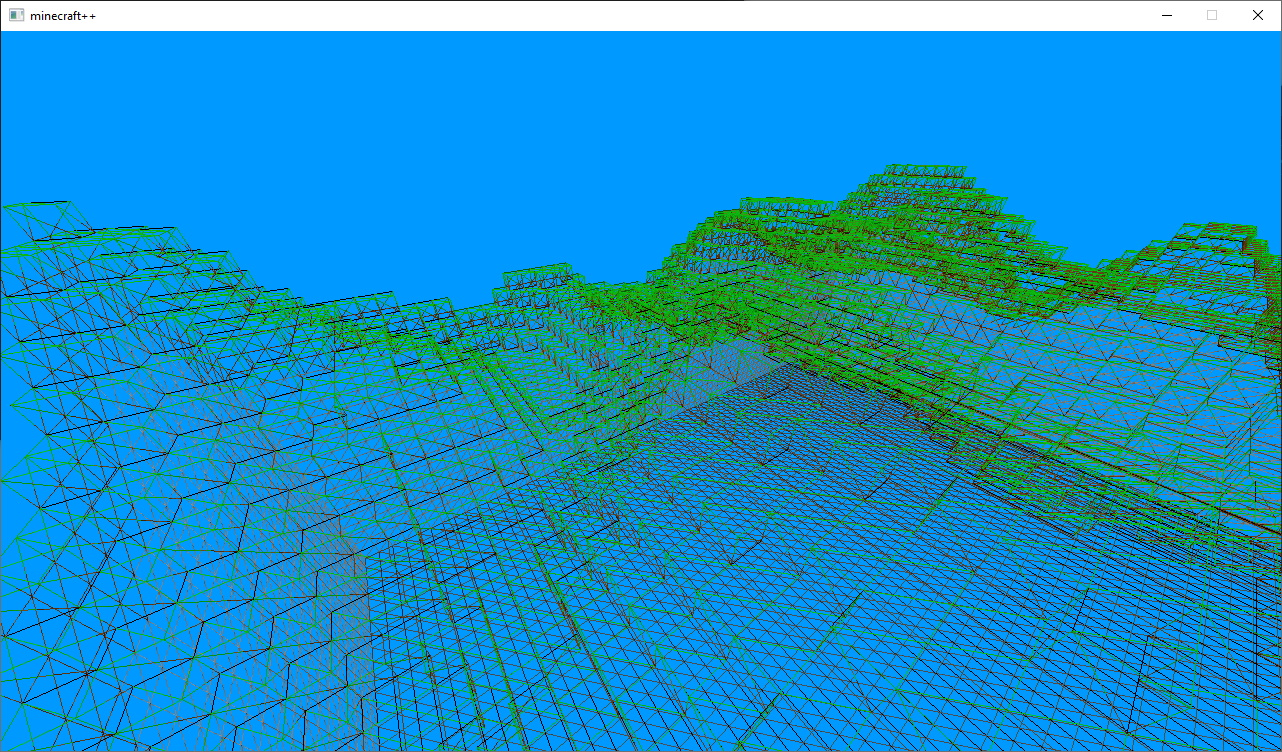
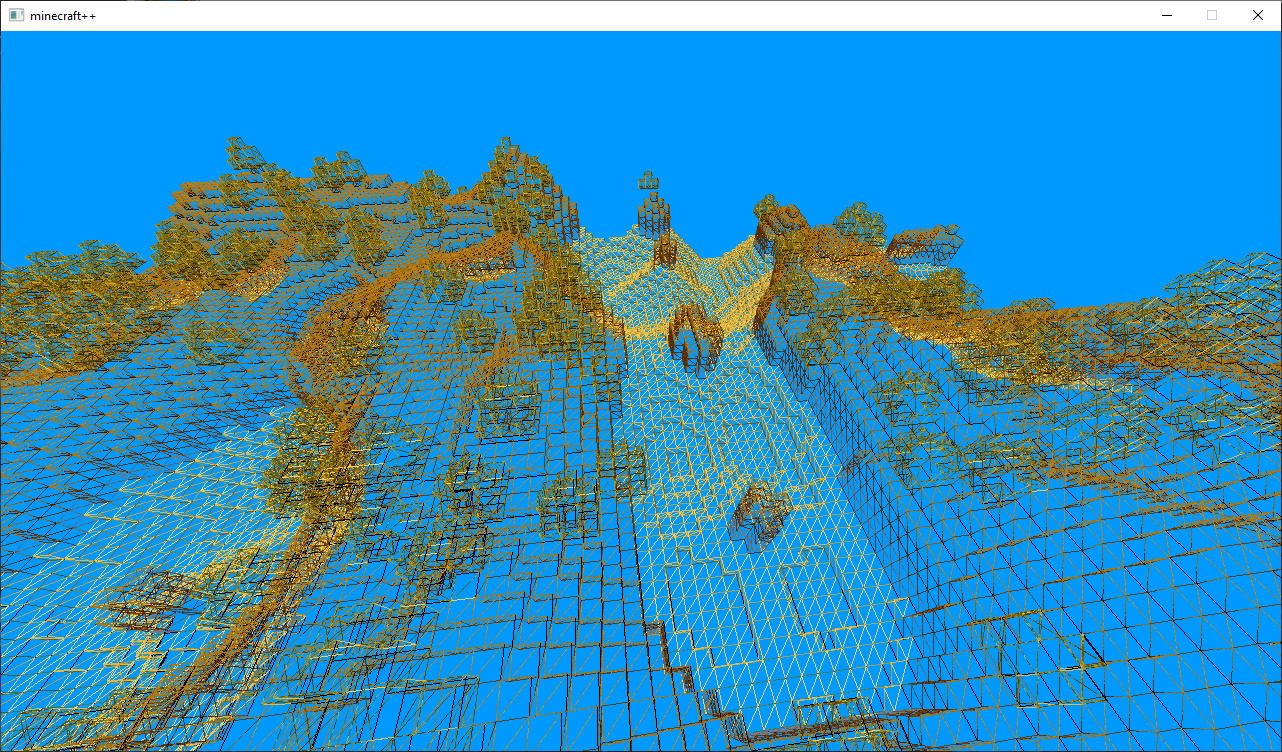
changed some textures, added trees

diff --git a/source/world/chunk.cpp b/source/world/chunk.cpp
@@ -2,6 +2,7 @@
 
 #include <glad/glad.h>
 #include <random>
+#include <iostream>
 
 #include "world.hpp"
 #include "../core/perlin.hpp"
@@ -29,11 +30,11 @@ Chunk::Chunk() :
 	Chunk(0, 0) {
 }
 
-
 Chunk::~Chunk() {
 	glDeleteVertexArrays(1, &m_vao);
 	glDeleteBuffers(1, &m_vbo);
 }
+
 
 void Chunk::setPosition(int x, int z) {
 	m_position.x = x;
@@ -54,13 +55,25 @@ void Chunk::setNeighbours(Chunk *px, Chunk *mx, Chunk *pz, Chunk *mz) {
 
 
 void Chunk::setBlock(int x, int y, int z, unsigned char type) {
-	m_block_data[x][z][y] = type;
-	m_should_update = true;
 
-	if( x == CHUNK_X - 1 && m_neighbours[0] != nullptr) m_neighbours[0]->m_should_update = true;
-	if( x == 0 && m_neighbours[1] != nullptr) m_neighbours[1]->m_should_update = true;
-	if( z == CHUNK_Z - 1 && m_neighbours[2] != nullptr) m_neighbours[2]->m_should_update = true;
-	if( z == 0 && m_neighbours[3] != nullptr) m_neighbours[3]->m_should_update = true;
+	if (x >= CHUNK_X && m_neighbours[0] != nullptr)
+		m_neighbours[0]->setBlock(0, y, z, type);
+	if (x < 0 && m_neighbours[1] != nullptr)
+		m_neighbours[1]->setBlock(CHUNK_X - 1, y, z, type);
+	if (z >= CHUNK_Z && m_neighbours[2] != nullptr)
+		m_neighbours[2]->setBlock(x, y, 0, type);
+	if (z < 0 && m_neighbours[3] != nullptr)
+		m_neighbours[3]->setBlock(x, y, CHUNK_Z - 1, type);
+
+	if (x >= 0 && x < CHUNK_X && y >= 0 && y < CHUNK_Y && z >= 0 && z < CHUNK_Z) {
+		m_block_data[x][z][y] = type;
+		m_should_update = true;
+
+		if (x == CHUNK_X - 1 && m_neighbours[0] != nullptr) m_neighbours[0]->m_should_update = true;
+		if (x == 0 && m_neighbours[1] != nullptr) m_neighbours[1]->m_should_update = true;
+		if (z == CHUNK_Z - 1 && m_neighbours[2] != nullptr) m_neighbours[2]->m_should_update = true;
+		if (z == 0 && m_neighbours[3] != nullptr) m_neighbours[3]->m_should_update = true;
+	}
 }
 
 unsigned char Chunk::getBlock(int x, int y, int z) {
@@ -200,6 +213,7 @@ void Chunk::generateTerrain(PerlinNoise &noise_generator) {
 	// shitty, temporary world generation
 	static std::default_random_engine e;
 	static std::bernoulli_distribution d(0.8);
+	static std::bernoulli_distribution dt(0.03);
 
 	m_element_count = 0;
 	for (int x = 0; x < CHUNK_X; ++x)
@@ -214,20 +228,35 @@ void Chunk::generateTerrain(PerlinNoise &noise_generator) {
 				}
 			} else if (y <= height_value) {
 				if (y == height_value) {
-					height_value < 35 ?
-						setBlock(x, y, z, Blocks::GRASS) :
-						setBlock(x, y, z, Blocks::SNOW_GRASS);
+					setBlock(x, y, z, Blocks::GRASS);
 				} else if (y > height_value - 3) {
 					setBlock(x, y, z, Blocks::DIRT);
 				} else {
-					if (d(e))
+					if (dt(e)) {
+						setBlock(x, y, z, Blocks::GOLD_ORE);
+					} else if (d(e))
 						setBlock(x, y, z, Blocks::STONE);
 					else
 						setBlock(x, y, z, Blocks::COBBLESTONE);
 				}
 				++m_element_count;
+			} else if (y == height_value + 1 && dt(e)) {
+				plantTree(x, y, z);
 			}
 		}}
+}
+
+void Chunk::plantTree(int x, int y, int z) {
+	for (int i = -1; i <= 1; ++i)
+	for (int j = -1; j <= 1; ++j)
+	for (int k = 0; k <= 3 ; ++k) {
+		Blocks::BlockType type = Blocks::tree_blocks[k * 9 + (i + 1) + (j + 1) * 3];
+		if (type != Blocks::AIR) {
+			setBlock(i + x, k + y, j + z, type);
+			++m_element_count;
+		}
+	}
+
 }
 
 

diff --git a/source/world/world.cpp b/source/world/world.cpp
@@ -6,7 +6,7 @@
 #include "../core/camera.hpp"
 #include "block.hpp"
 
-World::World():
+World::World(bool fog_enable):
 	m_shader("resources/shaders/vertex.glsl", "resources/shaders/fragment.glsl"),
 	m_tilset("resources/images/tileset.png"),
 	m_noise_generator(0) {
@@ -17,6 +17,7 @@ World::World():
 
 	m_shader.use();
 	m_shader.setMat4("projection", glm::value_ptr(projection_matrix));
+	m_shader.setInt("fog_enabled", fog_enable);
 
 	// construct chunks
 	for(int i = 0; i < WORLD_X; ++i)

diff --git a/source/world/block.hpp b/source/world/block.hpp
@@ -43,6 +43,13 @@ namespace Blocks {
 		{16, 16, 16, 16, 16, 16},
 		{17, 17, 18, 0, 17, 17}
 	};
+
+	const BlockType tree_blocks[36] {
+		AIR, AIR, AIR, AIR, WOOD, AIR, AIR, AIR, AIR,
+		LEAF, LEAF, LEAF, LEAF, WOOD, LEAF, LEAF, LEAF, LEAF,
+		AIR, LEAF, AIR, LEAF, WOOD, LEAF, AIR, LEAF, AIR,
+		AIR, AIR, AIR, AIR, LEAF, AIR, AIR, AIR, AIR,
+	};
 }
 
 #endif

diff --git a/source/states/playing_state.cpp b/source/states/playing_state.cpp
@@ -3,6 +3,7 @@
 #include <glad/glad.h>
 
 PlayingState::PlayingState( Config &config ):
+	m_world( config.fog_enabled ),
 	// place the camera at the center of the world
 	m_camera(glm::vec3(CHUNK_X * WORLD_X * 0.5f, 64.0f, CHUNK_Z * WORLD_Z * 0.5f), glm::vec3(0.f, 1.f, 0.f)) {
 	m_camera.setSensitivity(config.sensitivity);

diff --git a/source/core/config.cpp b/source/core/config.cpp
@@ -10,7 +10,7 @@ Config &Config::loadFromFile( const std::string &path ) {
 	std::getline(file, window_title);
 
 	file >> window_width >> window_height;
-	file >> fps_limit >> fps_cap;
+	file >> fps_limit >> fps_cap >> fog_enabled;
 	file >> sensitivity;
 
 	file.close();

diff --git a/source/core/config.hpp b/source/core/config.hpp
@@ -8,6 +8,7 @@ struct Config {
 	int window_height        = 720;
 	int fps_limit            = 60;
 	bool fps_cap             = true;
+	bool fog_enabled         = false;
 	double sensitivity       = 0.005;
 	std::string window_title = "Window";
 

diff --git a/source/world/world.hpp b/source/world/world.hpp
@@ -16,7 +16,7 @@ class Camera;
 
 class World {
 public:
-	World();
+	World(bool fog_enable = true);
 	~World();
 
 	void setBlock(int x, int y, int z, unsigned char type);

diff --git a/source/world/chunk.hpp b/source/world/chunk.hpp
@@ -35,6 +35,8 @@ public:
 	bool m_should_update = true;
 
 private:
+	void plantTree(int x, int y, int z);
+
 	glm::ivec2 m_position;
 
 	int m_element_count = 0;

diff --git a/README.md b/README.md
@@ -1,5 +1,8 @@
 # Minecraft C++
-A simple minecraft clone
+A simple minecraft clone,
+
+some solutions to some problemes (ex: placing trees..) are not good at all
+but will be replaced in later commit
 
 ## features
 - can remove blocks
@@ -15,5 +18,5 @@ A simple minecraft clone
 
 ## Todo
 
-- biomes
+-better world gen
 - water
